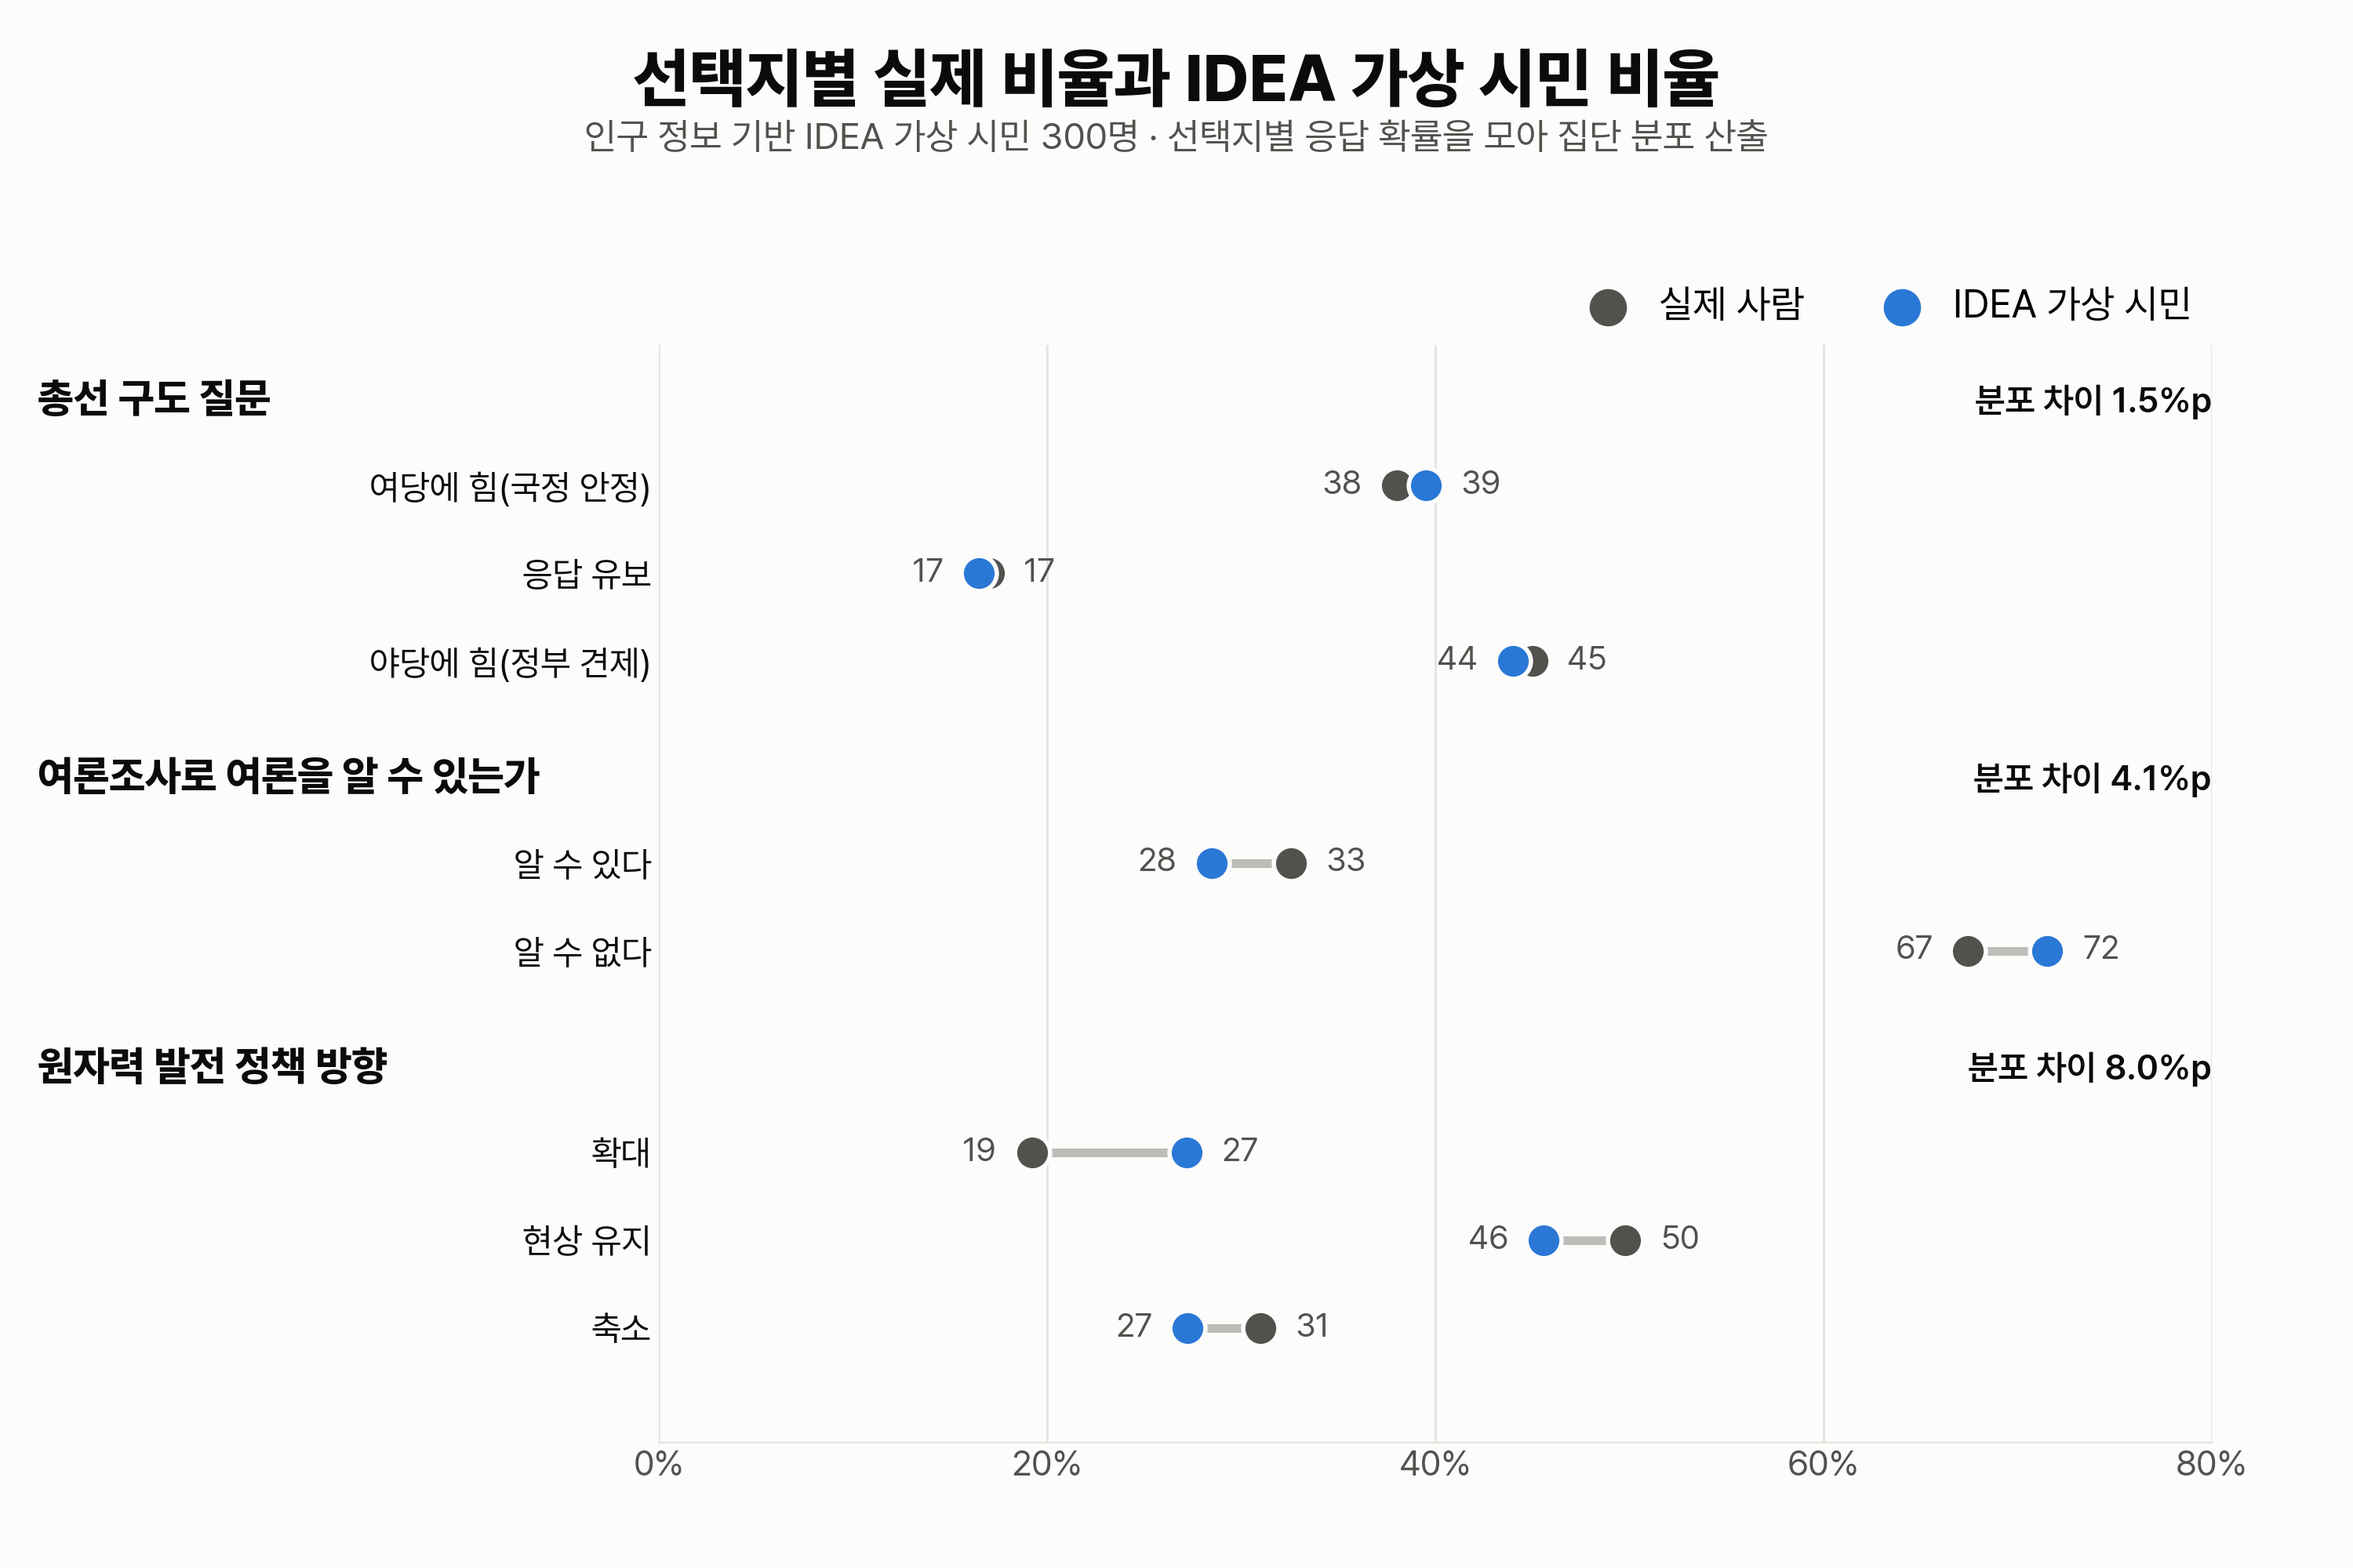
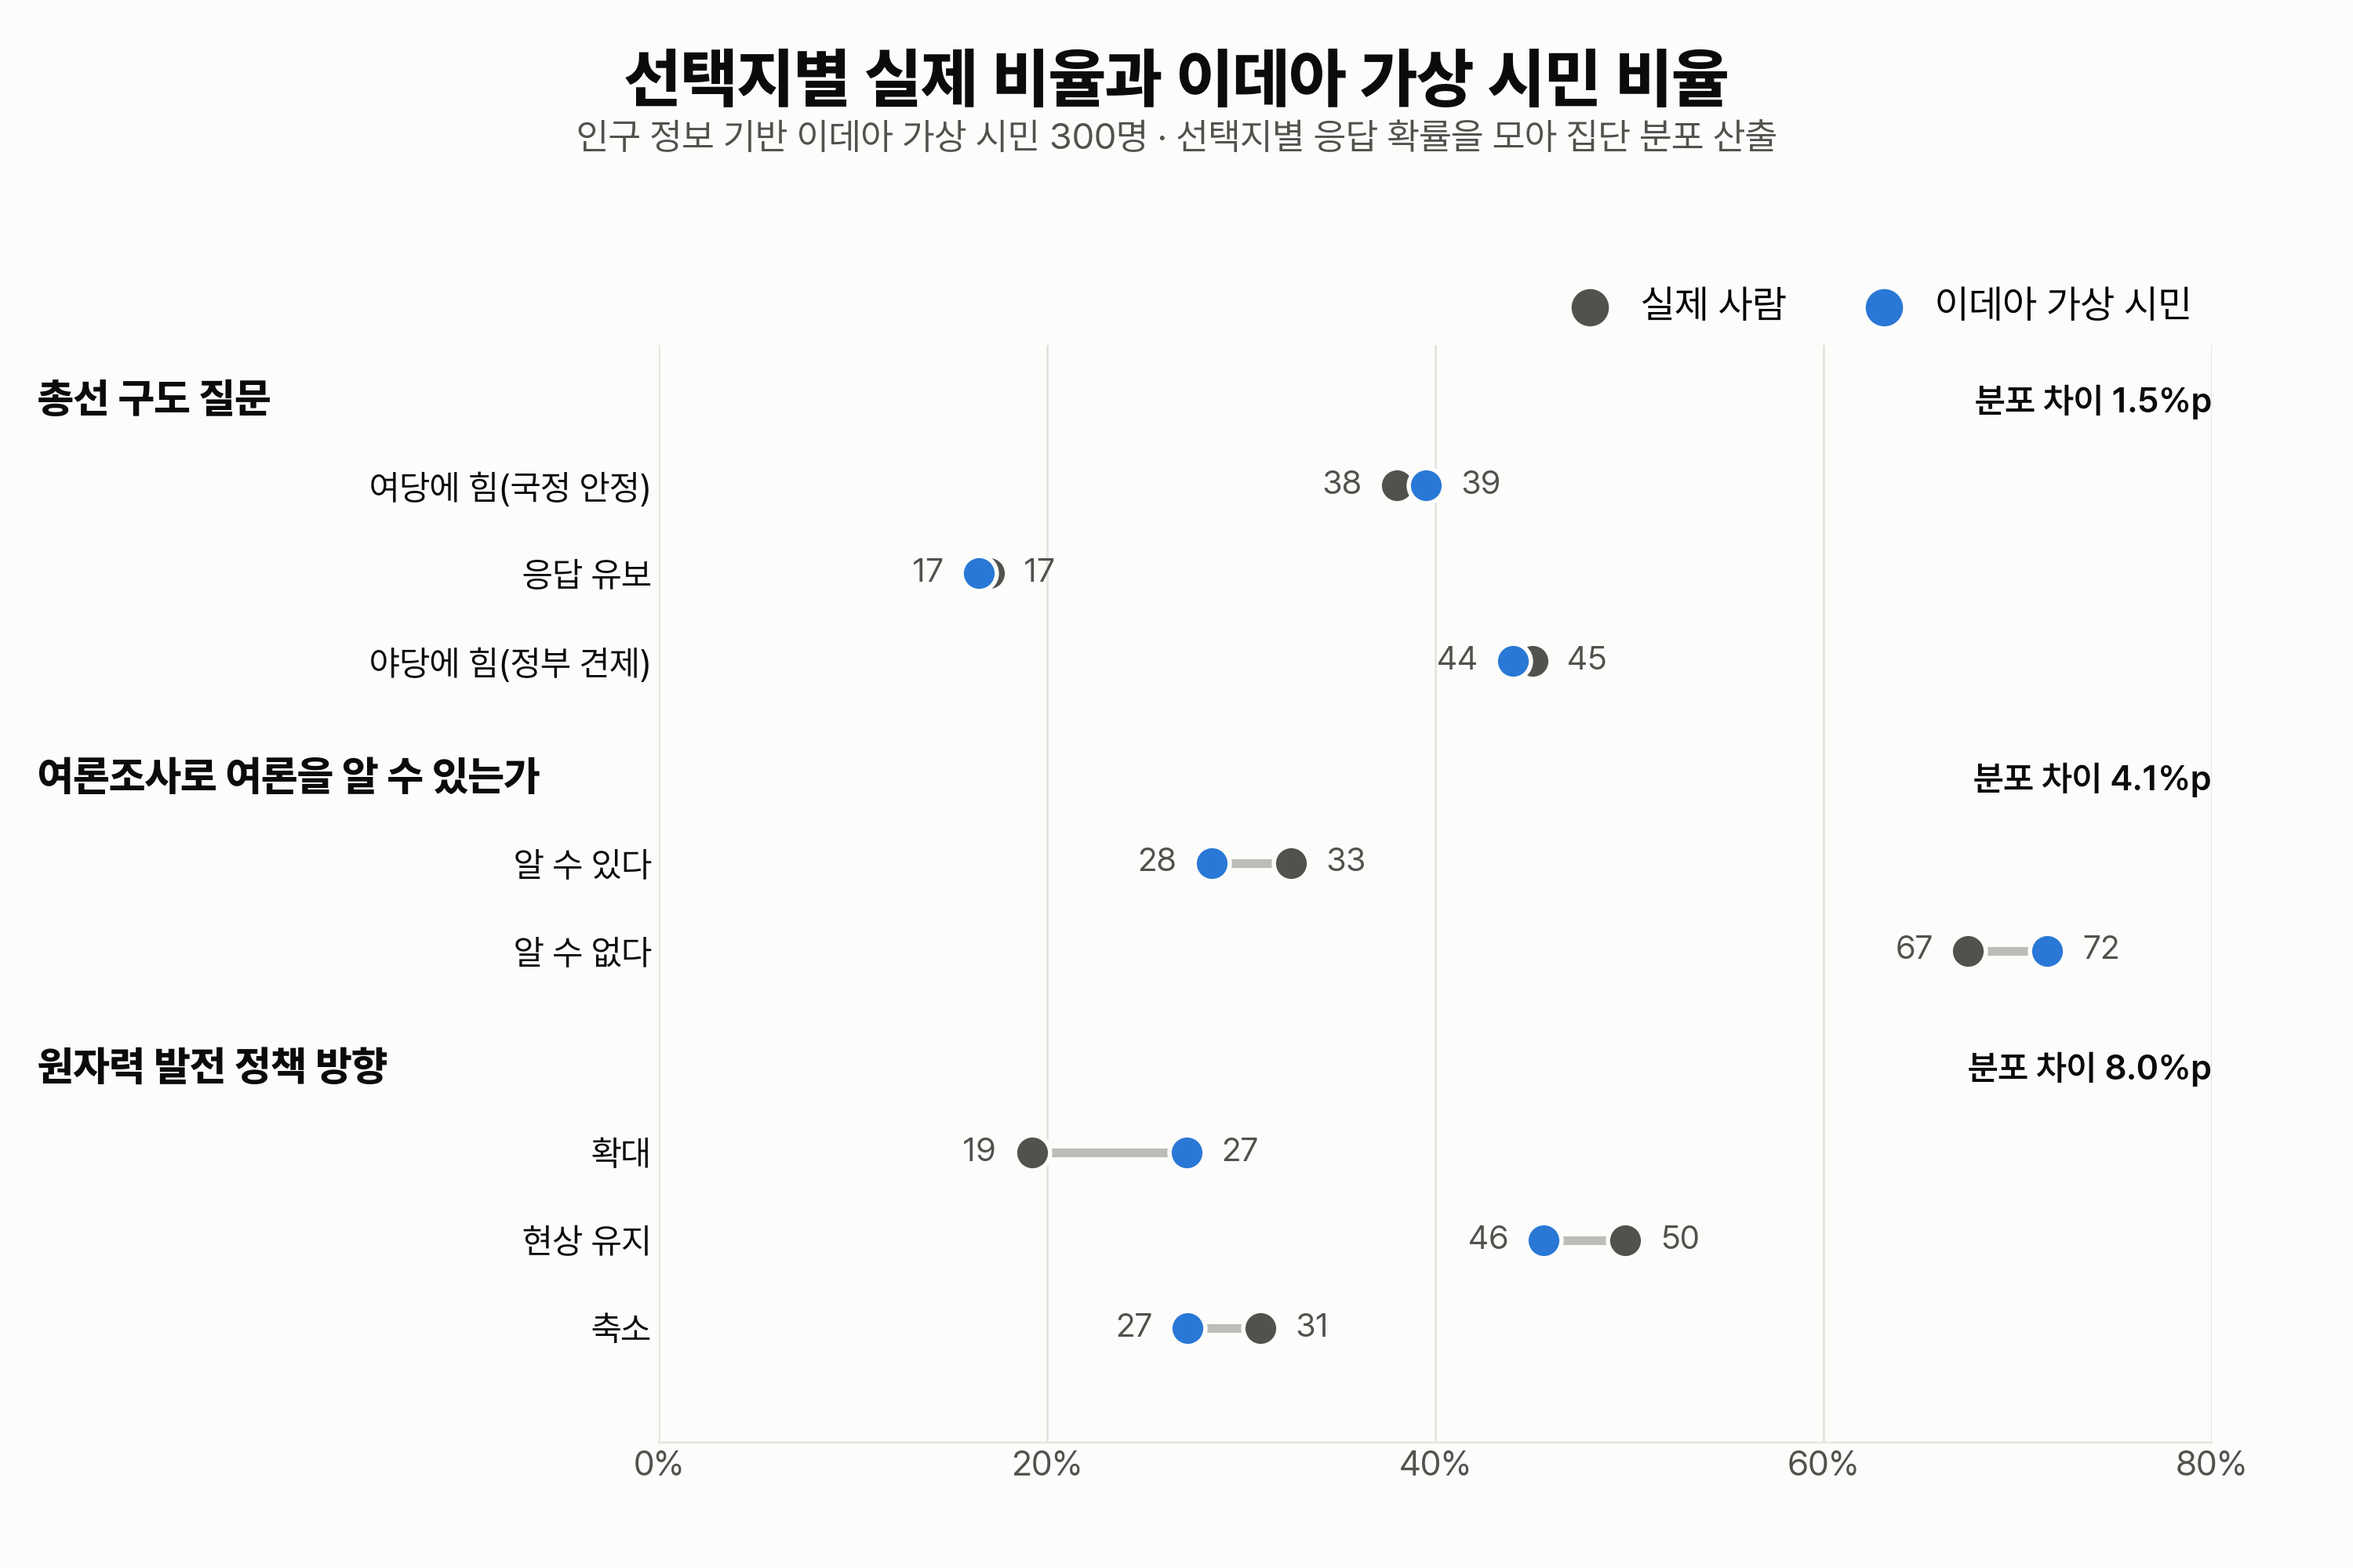
docs: chart A — tinted real row vs solid synthetic row, pill row labels; rename IDEA to 이데아 (EXP-010)

Changed region(s): [[0.248, 0.031, 0.744, 0.093], [0.651, 0.186, 0.868, 0.217]]

diff --git a/scripts/exp010_plot_candidates.py b/scripts/exp010_plot_candidates.py
@@ -1,5 +1,5 @@
 # -*- coding: utf-8 -*-
-"""사업계획서용 시각화 후보 4종 — 실제 사람 vs IDEA 가상 시민 응답 분포 (기존 결과 재표시).
+"""사업계획서용 시각화 후보 4종 — 실제 사람 vs 이데아 가상 시민 응답 분포 (기존 결과 재표시).
 
 A. 100% 누적 가로 막대 (여론조사 보도 표준)
 B. 덤벨 차트 (선택지별 두 값의 간격)
@@ -92,28 +92,38 @@ def style(ax):
     ax.tick_params(colors=INK2, labelsize=FS["tick"], length=0)
 
 
-SUB = "인구 정보 기반 IDEA 가상 시민 300명 · 선택지별 응답 확률을 모아 집단 분포 산출"
+SUB = "인구 정보 기반 이데아 가상 시민 300명 · 선택지별 응답 확률을 모아 집단 분포 산출"
+TINT = {POS: "#aac9ee", NEG: "#f2a7a6", NEU: "#e6e5e1"}  # 실제 분포용 옅은 색(같은 색상, 명도만 올림)
 
 
 # ── A. 100% 누적 가로 막대 ──
 def cand_A():
-    fig = frame("실제 사람과 IDEA 가상 시민의 응답 분포", SUB)
+    fig = frame("실제 사람과 이데아 가상 시민의 응답 분포", SUB)
     gs = fig.add_gridspec(3, 1, left=0.2, right=0.96, top=0.78, bottom=0.07, hspace=0.85)
     for i, d in enumerate(DATA):
         ax = fig.add_subplot(gs[i])
         style(ax)
-        for row, (lab, dist) in enumerate([("실제 사람", d["real"]), ("IDEA 가상 시민", d["idea"])]):
+        for row, dist in enumerate([d["real"], d["idea"]]):
+            is_real = row == 0
             left = 0
             for k in d["keys"]:
                 v = dist[k] * 100
-                ax.barh(row, v, left=left, height=0.62, color=d["colors"][k],
-                        edgecolor=SURF, linewidth=2)
+                base = d["colors"][k]
+                fc = TINT[base] if is_real else base
+                ax.barh(row, v, left=left, height=0.62, color=fc, edgecolor=SURF, linewidth=2)
                 if v >= 6:
-                    tc = INK if d["colors"][k] == NEU else "white"
+                    tc = INK if (is_real or base == NEU) else "white"
                     ax.text(left + v / 2, row, f"{v:.0f}%", ha="center", va="center",
                             fontsize=FS["val"], fontweight="semibold", color=tc)
                 left += v
-        ax.set_yticks([0, 1], ["실제 사람", "IDEA 가상 시민"], fontsize=FS["tick"], color=INK)
+        ax.set_yticks([])
+        # 행 이름: 실제 = 테두리 라벨, 이데아 = 채운 라벨
+        ax.text(-0.012, 0, "실제 사람", transform=ax.get_yaxis_transform(), ha="right", va="center",
+                fontsize=FS["tick"], color=INK2,
+                bbox=dict(boxstyle="round,pad=0.35", fc=SURF, ec="#9a9994", lw=1.4))
+        ax.text(-0.012, 1, "이데아 가상 시민", transform=ax.get_yaxis_transform(), ha="right",
+                va="center", fontsize=FS["tick"], color="white", fontweight="bold",
+                bbox=dict(boxstyle="round,pad=0.35", fc="#1f1f1f", ec="#1f1f1f", lw=1.4))
         ax.invert_yaxis()
         ax.set_xlim(0, 100)
         ax.set_xticks([])
@@ -139,7 +149,7 @@ def cand_A():
 
 # ── B. 덤벨 차트 ──
 def cand_B():
-    fig = frame("선택지별 실제 비율과 IDEA 가상 시민 비율", SUB)
+    fig = frame("선택지별 실제 비율과 이데아 가상 시민 비율", SUB)
     rows, labels, groups = [], [], []
     y = 0
     for d in DATA:
@@ -170,7 +180,7 @@ def cand_B():
         ax.text(1.0, gy - 0.95, f"분포 차이 {gap(d):.1f}%p", transform=ax.get_yaxis_transform(),
                 ha="right", fontsize=FS["tick"], fontweight="semibold", color=INK, va="center")
     ax.scatter([], [], s=260, color=REAL_C, label="실제 사람")
-    ax.scatter([], [], s=260, color=IDEA_C, label="IDEA 가상 시민")
+    ax.scatter([], [], s=260, color=IDEA_C, label="이데아 가상 시민")
     ax.legend(loc="lower right", fontsize=FS["leg"], frameon=False, bbox_to_anchor=(1.0, 1.0), ncol=2,
               handletextpad=0.3, columnspacing=1.5, borderaxespad=0.1)
     fig.savefig(D10 / "fig_cand_B_dumbbell.png", dpi=DPI, facecolor=SURF)
@@ -178,7 +188,7 @@ def cand_B():
 
 # ── C. 차이 막대 ──
 def cand_C():
-    fig = frame("IDEA 가상 시민은 실제보다 몇 %p 높거나 낮았나", SUB)
+    fig = frame("이데아 가상 시민은 실제보다 몇 %p 높거나 낮았나", SUB)
     ax = fig.add_axes([0.3, 0.1, 0.64, 0.72])
     style(ax)
     y, ticks, labels, heads = 0, [], [], []
@@ -210,7 +220,7 @@ def cand_C():
 
 # ── D. 대각선 산점도 ──
 def cand_D():
-    fig = frame("모든 선택지: 실제 비율 대비 IDEA 가상 시민 비율", SUB)
+    fig = frame("모든 선택지: 실제 비율 대비 이데아 가상 시민 비율", SUB)
     ax = fig.add_axes([0.26, 0.08, 0.48, 0.72])
     style(ax)
     ax.spines["left"].set_visible(True)
@@ -240,7 +250,7 @@ def cand_D():
     ax.grid(True, color=GRID)
     ax.set_axisbelow(True)
     ax.set_xlabel("실제 사람 응답 비율", fontsize=FS["tick"], color=INK, labelpad=10)
-    ax.set_ylabel("IDEA 가상 시민 응답 비율", fontsize=FS["tick"], color=INK, labelpad=10)
+    ax.set_ylabel("이데아 가상 시민 응답 비율", fontsize=FS["tick"], color=INK, labelpad=10)
     ax.legend(loc="upper left", fontsize=FS["leg"] - 4, frameon=True, facecolor=SURF, edgecolor=GRID,
               labelspacing=0.9, borderpad=0.8)
     fig.savefig(D10 / "fig_cand_D_scatter.png", dpi=DPI, facecolor=SURF)
